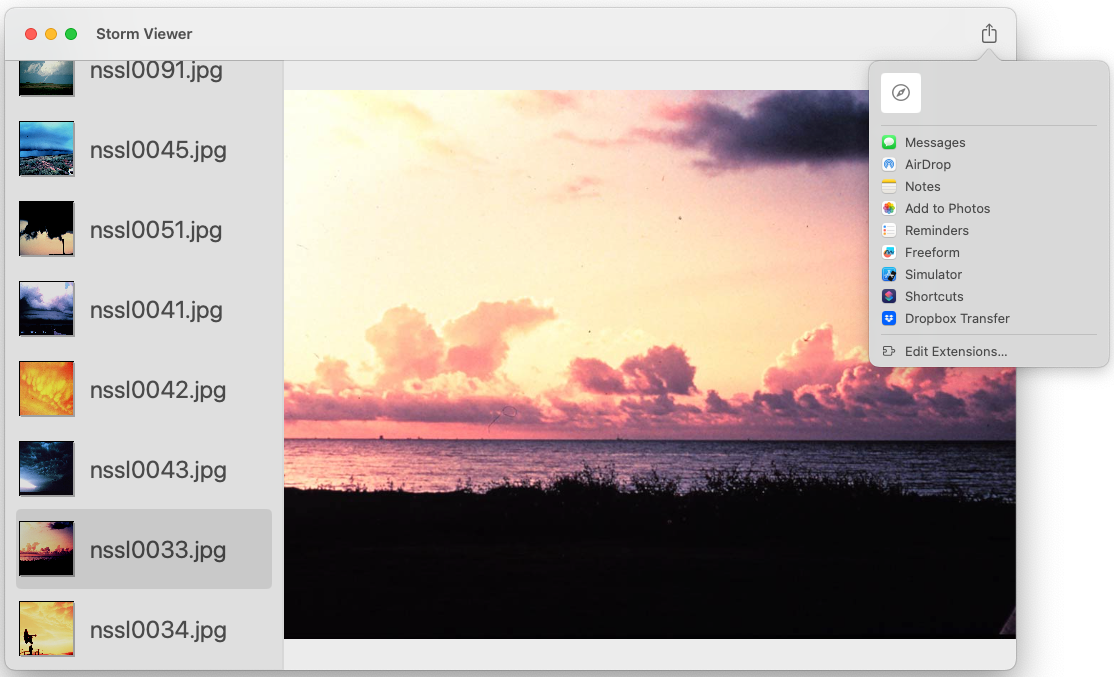
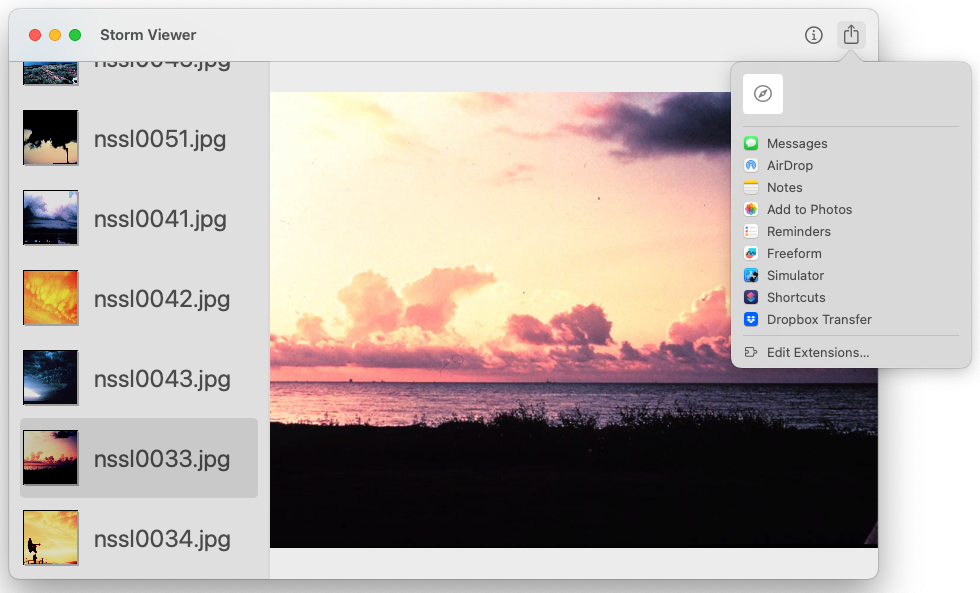
Homework: add another tab item

Changed region(s): [[0.0, 0.0, 1.0, 1.0], [0.3061, 0.1214, 0.398, 0.1821]]

diff --git a/07_Project3_SocialMedia/05_Project1_StormViewer/WindowController.swift b/07_Project3_SocialMedia/05_Project1_StormViewer/WindowController.swift
@@ -24,5 +24,17 @@ class WindowController: NSWindowController {
         let picker = NSSharingServicePicker(items: [image])
         picker.show(relativeTo: .zero, of: sender, preferredEdge: .maxY)
     }
+    
+    @IBAction func infoClicked(_ sender: NSView) {
+        guard let split = contentViewController as? NSSplitViewController else { return }
+        guard let source = split.children[0] as? SourceViewController else { return }
+        guard let tableView = source.tableView else { return }
+        guard tableView.selectedRow != -1 else { return }
+        
+        let alert = NSAlert()
+        alert.messageText = "Picture info"
+        alert.informativeText = "You have chosen a picture \(source.pictures[tableView.selectedRow])"
+        alert.runModal()
+    }
 
 }
